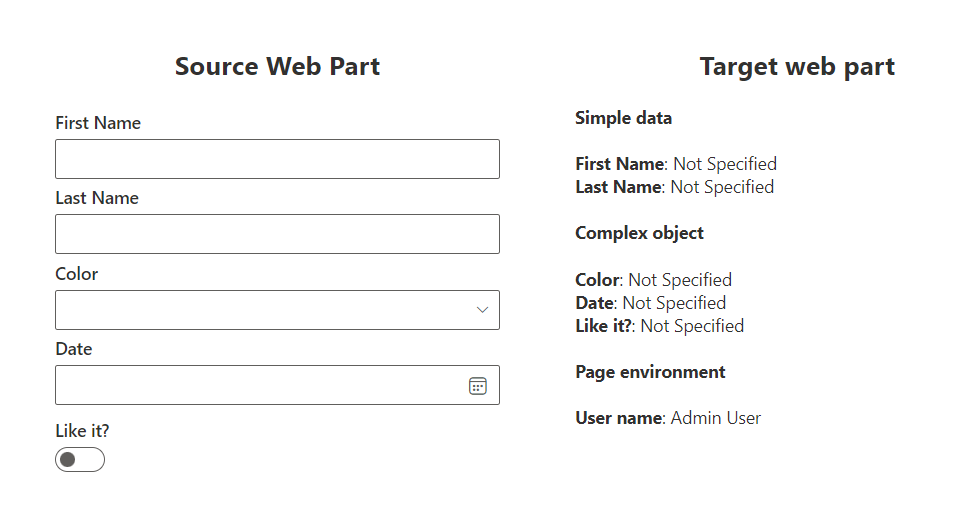
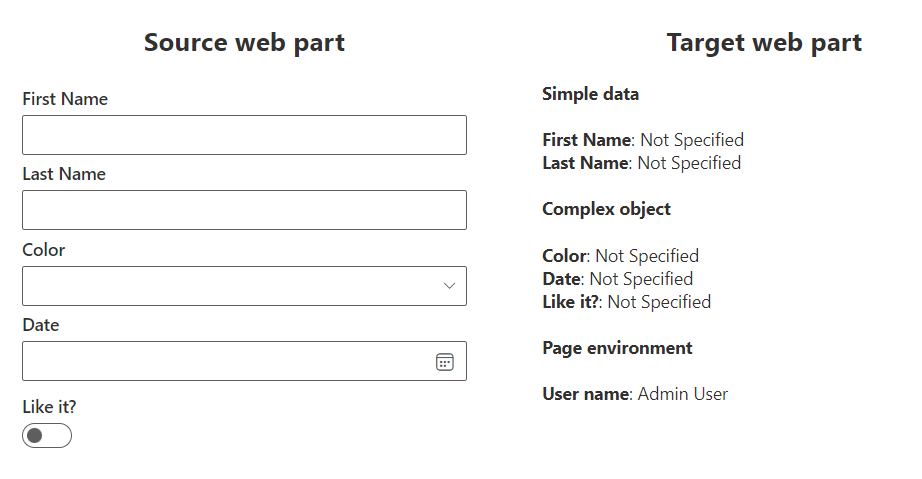
Updated README and assets

diff --git a/web parts/ConnectedWebParts/src/webparts/source/loc/en-us.js b/web parts/ConnectedWebParts/src/webparts/source/loc/en-us.js
@@ -7,7 +7,7 @@ define([], function() {
     LastName: "Last Name",
     Preferences: "Preferences",
     BadPropertyId: "Bad Property Id",
-    Title: "Source Web Part",
+    Title: "Source web part",
     Color: "Color",
     Date: "Date",
     Like: "Like it?",

diff --git a/web parts/ConnectedWebParts/README.md b/web parts/ConnectedWebParts/README.md
@@ -2,9 +2,33 @@
 
 ## Summary
 
-Short summary on functionality and used technologies.
+This samples showcase how to connect two web parts together.
 
-[picture of the solution in action, if possible]
+![Connected web parts](./assets/connected-web-parts.gif)
+
+![Blank web parts](./assets/Blank.png)
+
+![Filled web parts](./assets/Filled.png)
+
+![Filled web parts](./assets/PropertyPane.png)
+
+## Compatibility
+
+| :warning: Important |
+|:---------------------------|
+| Every SPFx version is optimally compatible with specific versions of Node.js. In order to be able to build this sample, you need to ensure that the version of Node on your workstation matches one of the versions listed in this section. This sample will not work on a different version of Node.|
+|Refer to <https://aka.ms/spfx-matrix> for more information on SPFx compatibility.   |
+
+This sample is optimally compatible with the following environment configuration:
+
+![SPFx 1.18.2](https://img.shields.io/badge/SPFx-1.18.2-green.svg)
+![Node.js v16 | v18](https://img.shields.io/badge/Node.js-v16%20%7C%20v18-green.svg)
+![Compatible with SharePoint Online](https://img.shields.io/badge/SharePoint%20Online-Compatible-green.svg)
+![Does not work with SharePoint 2019](https://img.shields.io/badge/SharePoint%20Server%202019-Incompatible-red.svg "SharePoint Server 2019 requires SPFx 1.4.1 or lower")
+![Does not work with SharePoint 2016 (Feature Pack 2)](https://img.shields.io/badge/SharePoint%20Server%202016%20(Feature%20Pack%202)-Incompatible-red.svg "SharePoint Server 2016 Feature Pack 2 requires SPFx 1.1")
+![Local Workbench Unsupported](https://img.shields.io/badge/Local%20Workbench-Unsupported-red.svg "Local workbench is no longer available as of SPFx 1.13 and above")
+![Hosted Workbench Compatible](https://img.shields.io/badge/Hosted%20Workbench-Compatible-green.svg)
+![Compatible with Remote Containers](https://img.shields.io/badge/Remote%20Containers-Compatible-green.svg)
 
 ## Used SharePoint Framework Version
 
@@ -12,62 +36,175 @@ Short summary on functionality and used technologies.
 
 ## Applies to
 
-- [SharePoint Framework](https://aka.ms/spfx)
-- [Microsoft 365 tenant](https://docs.microsoft.com/en-us/sharepoint/dev/spfx/set-up-your-developer-tenant)
+* [SharePoint Framework](https://learn.microsoft.com/sharepoint/dev/spfx/sharepoint-framework-overview)
+* [Microsoft 365 tenant](https://learn.microsoft.com/sharepoint/dev/spfx/set-up-your-development-environment)
 
 > Get your own free development tenant by subscribing to [Microsoft 365 developer program](http://aka.ms/o365devprogram)
 
-## Prerequisites
 
-> Any special pre-requisites?
+## Contributors
+<!--
+We use this section to recognize and promote your contributions. Please provide one author per line -- even if you worked together on it.
 
-## Solution
+We'll only use the info you provided here. Make sure to include your full name, not just your GitHub username.
 
-| Solution    | Author(s)                                               |
-| ----------- | ------------------------------------------------------- |
-| folder name | Author details (name, company, twitter alias with link) |
+Provide a link to your GitHub profile to help others find more cool things you have done. The only link we'll accept is a link to your GitHub profile.
+
+If you want to provide links to your social media, blog, and employer name, make sure to update your GitHub profile.
+-->
+
+* [Guido Zambarda](https://github.com/guidozam)
 
 ## Version history
 
-| Version | Date             | Comments        |
-| ------- | ---------------- | --------------- |
-| 1.1     | March 10, 2021   | Update comment  |
-| 1.0     | January 29, 2021 | Initial release |
+Version|Date|Comments
+-------|----|--------
+|1.0|March 15, 2024|Initial release|
 
-## Disclaimer
+## Prerequisites
 
-**THIS CODE IS PROVIDED _AS IS_ WITHOUT WARRANTY OF ANY KIND, EITHER EXPRESS OR IMPLIED, INCLUDING ANY IMPLIED WARRANTIES OF FITNESS FOR A PARTICULAR PURPOSE, MERCHANTABILITY, OR NON-INFRINGEMENT.**
+<!--
+Any special pre-requisites? Include any lists, permissions, offerings to the demo gods, or whatever else needs to be done for this web part to work.
 
----
+Please describe the steps to configure the pre-requisites. Feel free to add screen shots, but make sure that there is a text description of the steps to perform.
+ 
+-->
+## Minimal path to awesome
 
-## Minimal Path to Awesome
+* Clone this repository (or [download this solution as a .ZIP file](https://pnp.github.io/download-partial/?url=https://github.com/pnp/sp-dev-fx-webparts/tree/main/samples/react-connected-web-parts) then unzip it)
+* From your command line, change your current directory to the directory containing this sample (`react-connected-web-parts`, located under `samples`)
+* in the command line run:
+  * `npm install`
+  * `gulp serve`
 
-- Clone this repository
-- Ensure that you are at the solution folder
-- in the command-line run:
-  - **npm install**
-  - **gulp serve**
-
-> Include any additional steps as needed.
+> This sample can also be opened with [VS Code Remote Development](https://code.visualstudio.com/docs/remote/remote-overview). Visit <https://aka.ms/spfx-devcontainer> for further instructions.
 
 ## Features
 
-Description of the extension that expands upon high-level summary above.
+This sample illustrates how to use the `IDynamicDataCallables` interface to connect two web parts together. The first web part is a provider, and the second web part is a consumer. The provider has no configuration in the property pane, the consumer instead has properties in the property pane that allow the user to select the provider web part and the specific property to bind.
 
-This extension illustrates the following concepts:
+The `IDynamicDataCallables` interface define the methods that the provider web part must implement to expose its properties to the consumer web part.
 
-- topic 1
-- topic 2
-- topic 3
+One of the required methods in the provider web part is the following:
+  
+```typescript
+public getPropertyDefinitions(): ReadonlyArray<IDynamicDataPropertyDefinition> {
+  return [
+    {
+      id: Constants.FirstNamePropertyId,
+      title: strings.FirstName,
+    },
+    {
+      id: Constants.LastNamePropertyId,
+      title: strings.LastName,
+    },
+    {
+      id: Constants.PreferencesPropertyId,
+      title: strings.Preferences,
+    },
+  ];
+}
+```
+This define the properties that the provider web part exposes to the consumer web part.
 
-> Notice that better pictures and documentation will increase the sample usage and the value you are providing for others. Thanks for your submissions advance.
+The other method that the provider web part must implement is the following:
 
-> Share your web part with others through Microsoft 365 Patterns and Practices program to get visibility and exposure. More details on the community, open-source projects and other activities from http://aka.ms/m365pnp.
+```typescript
+public getPropertyValue(propertyId: string): string | IPreferences {
+  switch (propertyId) {
+    case Constants.FirstNamePropertyId:
+      return this._firstName;
+    case Constants.LastNamePropertyId:
+      return this._lastName;
+    case Constants.PreferencesPropertyId:
+      return this._preferences;
+  }
 
-## References
+  throw new Error(strings.BadPropertyId);
+}
+```
+This method returns the value of the property identified by the `propertyId` parameter.
 
-- [Getting started with SharePoint Framework](https://docs.microsoft.com/en-us/sharepoint/dev/spfx/set-up-your-developer-tenant)
-- [Building for Microsoft teams](https://docs.microsoft.com/en-us/sharepoint/dev/spfx/build-for-teams-overview)
-- [Use Microsoft Graph in your solution](https://docs.microsoft.com/en-us/sharepoint/dev/spfx/web-parts/get-started/using-microsoft-graph-apis)
-- [Publish SharePoint Framework applications to the Marketplace](https://docs.microsoft.com/en-us/sharepoint/dev/spfx/publish-to-marketplace-overview)
-- [Microsoft 365 Patterns and Practices](https://aka.ms/m365pnp) - Guidance, tooling, samples and open-source controls for your Microsoft 365 development
+In the provider web part the properties are updated by the user through the UI, and the consumer web part is automatically updated with the new values, to enable the automatic update the provider web part must call the `notifyPropertyChanged` method every time a property is updated, for example the following code is called every time the first name is updated:
+
+```typescript
+private _firstNameChanged = (firstName: string): void => {
+  this._firstName = firstName;
+  // notify subscribers that the first name has changed
+  this.context.dynamicDataSourceManager.notifyPropertyChanged(
+    Constants.FirstNamePropertyId
+  );
+};
+```
+
+The consumer web part's properties that needs to be connected to the provider web part must be defined in the property pane using the `PropertyPaneDynamicField` as the following:
+  
+```typescript
+PropertyPaneDynamicField("firstName", {
+  label: strings.FirstName,
+})
+```
+
+In the consumer web part's properties the dynamic properties must be specified as the following:
+
+```typescript
+firstName: DynamicProperty<string>;
+```
+
+The last step to display the value of the connected property in the consumer web part control is to use the property as the following:
+
+```typescript 
+const firstNameValue = this.props.firstName?.tryGetValue();
+```
+
+<!--
+RESERVED FOR REPO MAINTAINERS
+
+We'll add the video from the community call recording here
+
+## Video
+
+[![YouTube video title](./assets/video-thumbnail.jpg)](https://www.youtube.com/watch?v=XXXXX "YouTube video title")
+-->
+
+## Help
+
+<!--
+You can just search and replace this page with the following values:
+
+Search for:
+react-connected-web-parts
+
+Replace with your sample folder name. E.g.: react-my-cool-sample
+
+Search for:
+@YOURGITHUBUSERNAME
+
+Replace with your GitHub username, prefixed with an "@". If you have more than one author, use %20 to separate them, making sure to prefix everyone's username individually with an "@".
+
+Example:
+@hugoabernier
+
+Or:
+@hugoabernier%20@VesaJuvonen%20@PopWarner
+-->
+
+We do not support samples, but this community is always willing to help, and we want to improve these samples. We use GitHub to track issues, which makes it easy for  community members to volunteer their time and help resolve issues.
+
+If you're having issues building the solution, please run [spfx doctor](https://pnp.github.io/cli-microsoft365/cmd/spfx/spfx-doctor/) from within the solution folder to diagnose incompatibility issues with your environment.
+
+You can try looking at [issues related to this sample](https://github.com/pnp/sp-dev-fx-webparts/issues?q=label%3A%22sample%3A%20react-connected-web-parts%22) to see if anybody else is having the same issues.
+
+You can also try looking at [discussions related to this sample](https://github.com/pnp/sp-dev-fx-webparts/discussions?discussions_q=react-connected-web-parts) and see what the community is saying.
+
+If you encounter any issues using this sample, [create a new issue](https://github.com/pnp/sp-dev-fx-webparts/issues/new?assignees=&labels=Needs%3A+Triage+%3Amag%3A%2Ctype%3Abug-suspected%2Csample%3A%20react-connected-web-parts&template=bug-report.yml&sample=react-connected-web-parts&authors=@guidozam&title=react-connected-web-parts%20-%20).
+
+For questions regarding this sample, [create a new question](https://github.com/pnp/sp-dev-fx-webparts/issues/new?assignees=&labels=Needs%3A+Triage+%3Amag%3A%2Ctype%3Aquestion%2Csample%3A%20react-connected-web-parts&template=question.yml&sample=react-connected-web-parts&authors=@guidozam&title=react-connected-web-parts%20-%20).
+
+Finally, if you have an idea for improvement, [make a suggestion](https://github.com/pnp/sp-dev-fx-webparts/issues/new?assignees=&labels=Needs%3A+Triage+%3Amag%3A%2Ctype%3Aenhancement%2Csample%3A%20react-connected-web-parts&template=suggestion.yml&sample=react-connected-web-parts&authors=@guidozam&title=react-connected-web-parts%20-%20).
+
+## Disclaimer
+
+**THIS CODE IS PROVIDED *AS IS* WITHOUT WARRANTY OF ANY KIND, EITHER EXPRESS OR IMPLIED, INCLUDING ANY IMPLIED WARRANTIES OF FITNESS FOR A PARTICULAR PURPOSE, MERCHANTABILITY, OR NON-INFRINGEMENT.**
+
+<img src="https://m365-visitor-stats.azurewebsites.net/sp-dev-fx-webparts/samples/react-connected-web-parts" />
